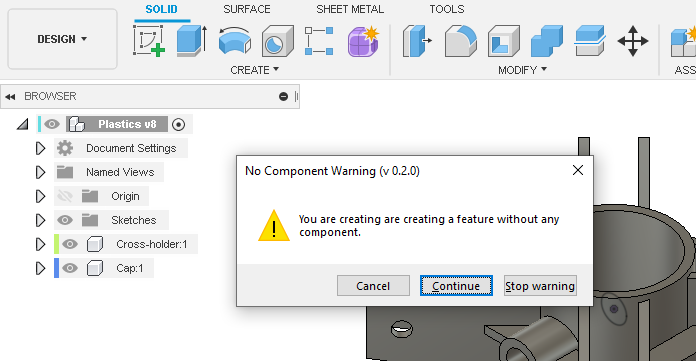
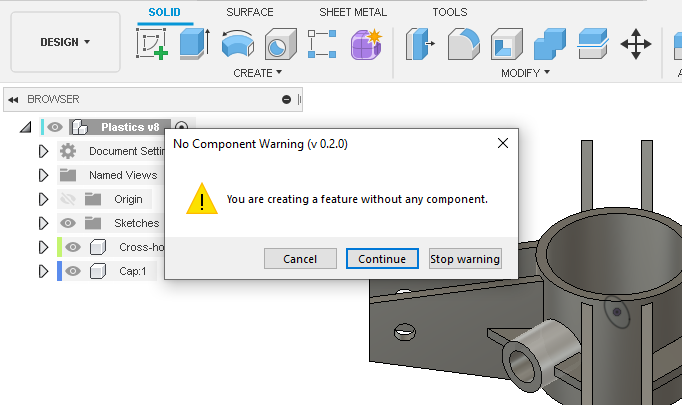
Fix duplicated words in dialog text. v. 0.2.1

Changed region(s): [[0.0, 0.2133, 1.0, 1.0], [0.1848, 0.0, 1.0, 0.2133], [0.0308, 0.0914, 0.1232, 0.1219]]

diff --git a/NoComponentWarn.py b/NoComponentWarn.py
@@ -88,7 +88,7 @@ def command_handler(args):
     # data(?). Going for a MessageBox instead.
     
     # Using a button combo with "Cancel", as that will map to Esc
-    ret = thomasa88lib.win.msgbox.custom_msgbox('You are creating are creating a feature without any component.',
+    ret = thomasa88lib.win.msgbox.custom_msgbox('You are creating a feature without any component.',
                                                 f"No Component Warning (v {manifest_['version']})",
                                                 (thomasa88lib.win.msgbox.MB_ICONWARNING |
                                                  thomasa88lib.win.msgbox.MB_CANCELTRYCONTINUE |

diff --git a/README.md b/README.md
@@ -35,5 +35,7 @@ This project is licensed under GPL v3 or any later version. See [LICENSE](LICENS
 
 ## Changelog
 
+* v 0.2.1
+  * Fix duplicated words in dialog text
 * v 0.2.0
   * Better button labels
